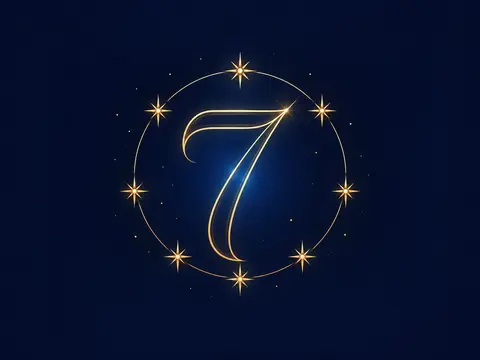
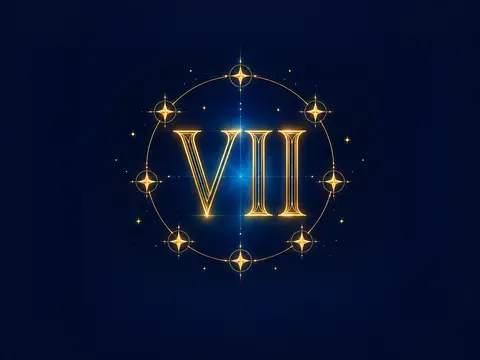
การ์ดเลข 7 ตัว: เปลี่ยนเป็นเลขโรมัน VII
Claude-Session: https://claude.ai/code/session_012VN3BbfxEtvu5qFQUYZuEB

Changed region(s): [[0.25, 0.1528, 0.75, 0.825]]

diff --git a/src/lib/systems/registry.ts b/src/lib/systems/registry.ts
@@ -35,7 +35,7 @@ export const SYSTEMS: SystemInfo[] = [
     href: "/thai-seven",
     accent: "blue",
     art: "cat-thai-seven",
-    artAlt: "ลายเส้นทองรูปเลข 7 ล้อมด้วยวงโคจรของดาว 7 ดวง บนพื้นน้ำเงินเข้ม",
+    artAlt: "ลายเส้นทองรูปเลขโรมัน VII ในวงโคจรที่มีดาวประดับ บนพื้นน้ำเงินเข้ม",
   },
   {
     id: "zodiac",

diff --git a/docs/design/image-assets.md b/docs/design/image-assets.md
@@ -56,7 +56,7 @@ Style: Cosmic Neon digital illustration, deep midnight navy and indigo environme
 
 ### IMG-02: เลข 7 ตัว (4:3)
 ```
-Minimalist luxury line-art illustration, 4:3. A large elegant numeral "7" drawn only with thin glowing gold lines, encircled by seven small gold stars evenly spaced on a fine circular orbit line, centered on a flat deep midnight-navy background (#0B1230) with a very subtle soft vignette and a few tiny gold star dots. The subject fills no more than 40% of the frame, generous empty space around it. Only gold linework on navy, plus a faint electric-blue glow (#38BDF8) behind the subject. Clean, calm, premium, cohesive icon-like composition, like a luxury book cover. No other text or numbers, no watermark, no extra objects, no landscape.
+Minimalist luxury line-art illustration, 4:3. The Roman numeral "VII" in a tall, elegant classical serif (like letters engraved on an ancient Roman monument), drawn only with thin glowing gold double-line strokes, with fine serifs and delicate engraved detailing. It is centered inside a fine circular orbit line with seven small gold four-pointed stars evenly spaced around it. The whole design sits in the center of a flat deep midnight-navy background (#0B1230), with a very subtle soft vignette and a few tiny gold star dots. The subject fills no more than 40% of the frame, with generous empty space around it. Only gold linework on navy, plus a faint electric-blue glow (#38BDF8) behind the numeral. Clean, calm, premium, cohesive icon-like composition, like a luxury book cover. The only characters are the three letters V, I, I, spelled correctly as "VII". No other text, no Arabic numerals, no watermark, no extra objects, no landscape.
 ```
 
 ### IMG-08: 12 ราศี (4:3)
